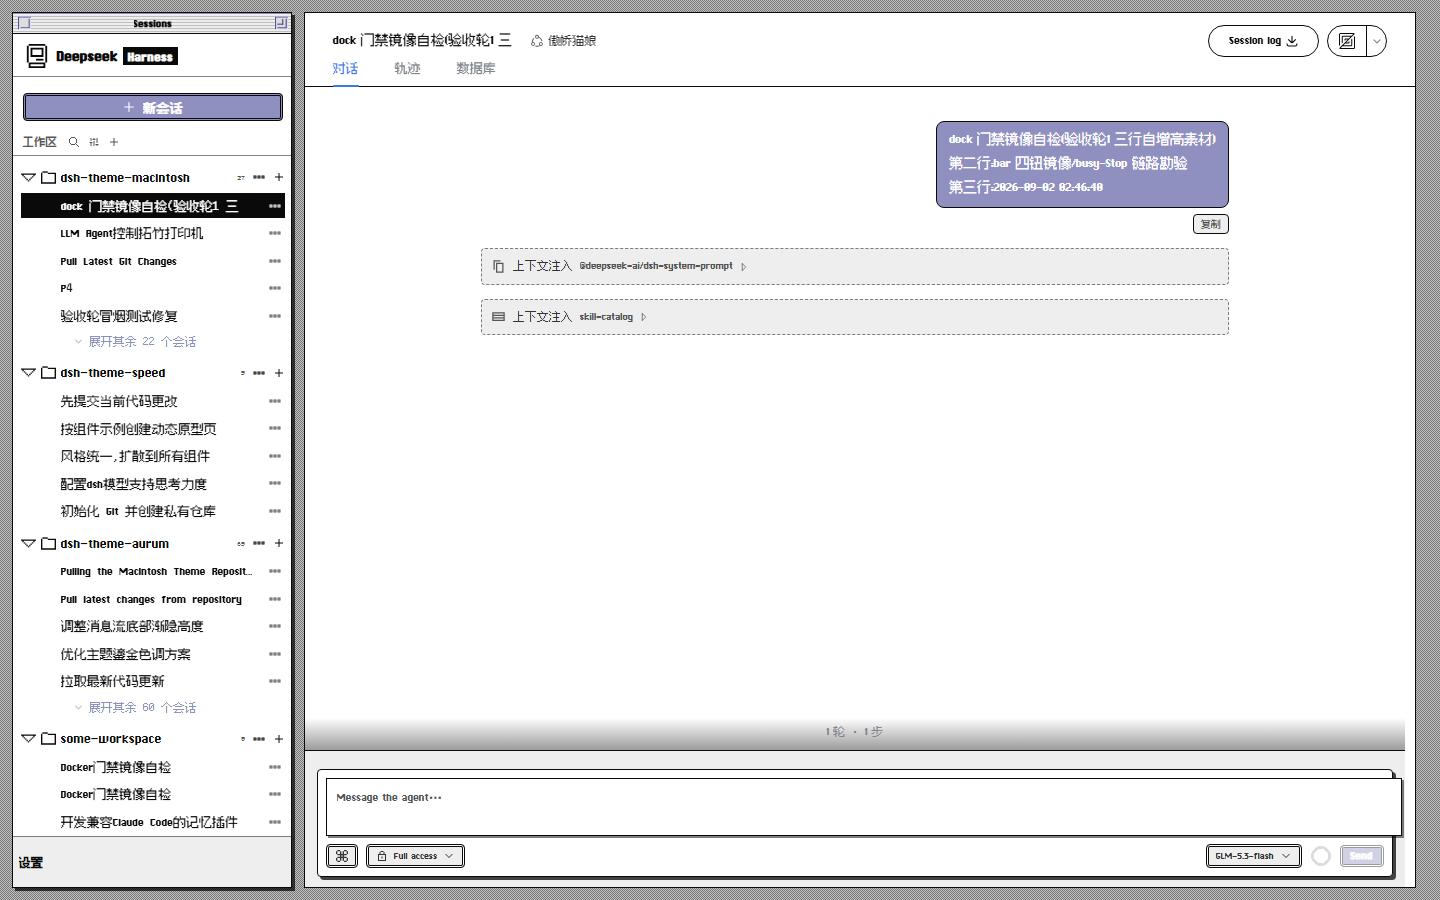
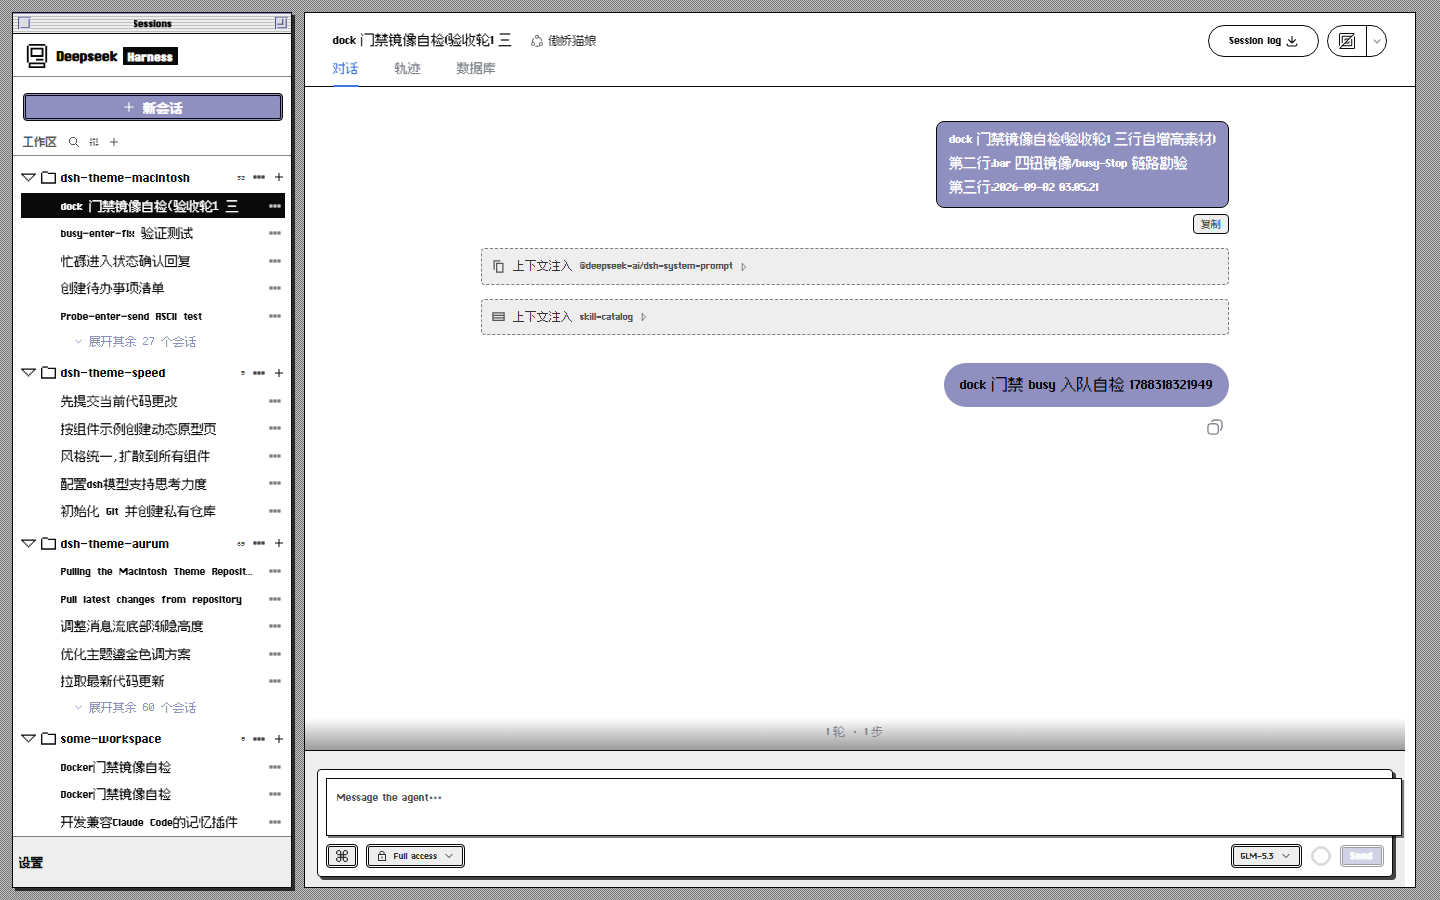
fix(mc-dock): busy 态回车入队——用户报障「回车不发送」修复
根因: dock 批把原型「有队列时入队不直发」简化为 busy 早退,agent 运行中
打字回车无事发生(idle 回车与 IME 守卫勘定无恙)。
修复: busy Enter = 镜像官方 textarea + 合成 keydown Enter 驱动官方
onKeyDown 入队(官方件唯一通道纪律,不直调 prompt 服务面);defaultPrevented
即收讫清本地稿,600ms 幽灵稿清扫拍,官方未收撤镜像留稿可重试。
门禁断言8b 固化(稿清空/无幽灵稿/消息入流),verify-dock GREEN 全程。

diff --git a/client.js b/client.js
@@ -2528,6 +2528,7 @@ var McDock = {
     var state = { mode: 'idle', has: false };
     var root = null, rootEl = null, furn = null, cmp = null; // rootEl 持元素引用:置空 root 后退场/teardown 仍能 remove
     var mo = null, dead = false;
+    var qTimer = null; // busy 入队收讫后置幽灵稿清扫拍(bug修复 2026-09-02:busy 回车入队)
     var off = { card: null, field: null, send: null, stop: null, phaseEl: null, phaseVal: '' };
     var MC_DOCK_API = null; // 模块级桥(Task 5/6/kit 消费)
     function q(sel) { try { return sel ? document.querySelector(sel) : null; } catch (e) { return null; } }
@@ -2644,7 +2645,7 @@ var McDock = {
         ta.style.height = Math.min(ta.scrollHeight, Math.round(window.innerHeight * 0.4)) + 'px';
         paint();
       });
-      ta.addEventListener('keydown', function (e) { // 原型 §9.2:Enter 无 Shift=发送;busy 早退
+      ta.addEventListener('keydown', function (e) { // 原型 §9.2:Enter 无 Shift=发送(idle=官方钮/busy=官方入队)
         if (e.isComposing) return; // 裁定:IME 组字期 Enter=选字确认,不得发送(中文交互主场景;Task 5 fix-1)
         try { if (e.key === 'Enter' && !e.shiftKey) { e.preventDefault(); doSend(); } } catch (er) {}
       });
@@ -2815,13 +2816,38 @@ var McDock = {
       try {
         var ta = cmp.querySelector('textarea');
         var text = ta ? ta.value : '';
-        if (state.mode === 'busy' || !text.trim()) return; // busy 早退(原型 §9.2)
+        if (!text.trim()) return;
+        if (state.mode === 'busy') { doQueue(text); return; } // busy:官方入队(原型 §9.2「有队列时入队不直发」;2026-09-02 修复——原「busy 早退」致回车无效)
         if (!api.setText(text)) { bridgeFail(); return; } // 镜像失败 = 桥断 → 降级
         if (!api.send()) return; // 官方钮 disabled = 官方拒绝,保留草稿不降级
         ta.value = '';
         ta.style.height = ''; // 验收轮1:清稿后自增高复位(回 rows=1 基线)
         state = mcDockState(state, { t: 'input', has: false });
         paint();
+      } catch (er) {}
+    }
+    function doQueue(text) { // busy 态回车:镜像官方 textarea + 合成 keydown Enter → 官方 onKeyDown 入队
+      // 勘定(probe-busy-enter B,2026-09-02):官方收讫即 preventDefault+受控清稿,消息即时入流为转向行;
+      // 官方件唯一通道纪律保持——驱动官方输入件自身 Enter 处理器,不直调 prompt('queue') 服务面。
+      try {
+        if (!off.field) return;
+        if (!api.setText(text)) { bridgeFail(); return; } // 镜像失败 = 桥断 → 降级
+        var kd = new window.KeyboardEvent('keydown',
+          { key: 'Enter', code: 'Enter', keyCode: 13, which: 13, bubbles: true, cancelable: true });
+        off.field.dispatchEvent(kd);
+        if (kd.defaultPrevented) { // 官方收讫信号(B 勘定)→ 清本地稿
+          var ta = cmp.querySelector('textarea');
+          if (ta) { ta.value = ''; ta.style.height = ''; }
+          state = mcDockState(state, { t: 'input', has: false });
+          paint();
+          try { if (qTimer) CLOCK.clear(qTimer); } catch (e) {}
+          qTimer = CLOCK.next(function ghostSweep() { // 收讫但官方受控清稿未落(慢 flush 角落)→ 撤镜像防幽灵稿
+            qTimer = null;
+            try { if (!dead && off.field && off.field.value !== '') mcMirrorValue(off.field, ''); } catch (e) {}
+          }, 600);
+          return;
+        }
+        mcMirrorValue(off.field, ''); // 官方未收(宿主改版等):撤镜像防幽灵稿,本地草稿保留可重试
       } catch (er) {}
     }
     function paint() { // 三态渲染(原型 §9.2;accToggle 状态切换)
@@ -3001,6 +3027,7 @@ var McDock = {
       try { if (MC_DOCK_API === api) MC_DOCK_API = null; } catch (e) {}
       try { if (mo) mo.disconnect(); } catch (e) {}
       try { if (timer) CLOCK.clear(timer); } catch (e) {}
+      try { if (qTimer) CLOCK.clear(qTimer); } catch (e) {} // busy 入队幽灵稿清扫拍随退场撤
       try { furnUnsub('unList'); furnUnsub('unSess'); furnUnsub('unTodos'); furnUnsub('unGoal'); } catch (e) {} // furn 批:四订阅全退订
       try { document.documentElement.removeAttribute('data-mc-dock-on'); } catch (e) {}
       try { document.documentElement.removeAttribute('data-mc-pop'); } catch (e) {} // 验收轮2:弹层门控随 teardown 摘除

diff --git a/src/conv/dock.js b/src/conv/dock.js
@@ -144,6 +144,7 @@ var McDock = {
     var state = { mode: 'idle', has: false };
     var root = null, rootEl = null, furn = null, cmp = null; // rootEl 持元素引用:置空 root 后退场/teardown 仍能 remove
     var mo = null, dead = false;
+    var qTimer = null; // busy 入队收讫后置幽灵稿清扫拍(bug修复 2026-09-02:busy 回车入队)
     var off = { card: null, field: null, send: null, stop: null, phaseEl: null, phaseVal: '' };
     var MC_DOCK_API = null; // 模块级桥(Task 5/6/kit 消费)
     function q(sel) { try { return sel ? document.querySelector(sel) : null; } catch (e) { return null; } }
@@ -260,7 +261,7 @@ var McDock = {
         ta.style.height = Math.min(ta.scrollHeight, Math.round(window.innerHeight * 0.4)) + 'px';
         paint();
       });
-      ta.addEventListener('keydown', function (e) { // 原型 §9.2:Enter 无 Shift=发送;busy 早退
+      ta.addEventListener('keydown', function (e) { // 原型 §9.2:Enter 无 Shift=发送(idle=官方钮/busy=官方入队)
         if (e.isComposing) return; // 裁定:IME 组字期 Enter=选字确认,不得发送(中文交互主场景;Task 5 fix-1)
         try { if (e.key === 'Enter' && !e.shiftKey) { e.preventDefault(); doSend(); } } catch (er) {}
       });
@@ -431,13 +432,38 @@ var McDock = {
       try {
         var ta = cmp.querySelector('textarea');
         var text = ta ? ta.value : '';
-        if (state.mode === 'busy' || !text.trim()) return; // busy 早退(原型 §9.2)
+        if (!text.trim()) return;
+        if (state.mode === 'busy') { doQueue(text); return; } // busy:官方入队(原型 §9.2「有队列时入队不直发」;2026-09-02 修复——原「busy 早退」致回车无效)
         if (!api.setText(text)) { bridgeFail(); return; } // 镜像失败 = 桥断 → 降级
         if (!api.send()) return; // 官方钮 disabled = 官方拒绝,保留草稿不降级
         ta.value = '';
         ta.style.height = ''; // 验收轮1:清稿后自增高复位(回 rows=1 基线)
         state = mcDockState(state, { t: 'input', has: false });
         paint();
+      } catch (er) {}
+    }
+    function doQueue(text) { // busy 态回车:镜像官方 textarea + 合成 keydown Enter → 官方 onKeyDown 入队
+      // 勘定(probe-busy-enter B,2026-09-02):官方收讫即 preventDefault+受控清稿,消息即时入流为转向行;
+      // 官方件唯一通道纪律保持——驱动官方输入件自身 Enter 处理器,不直调 prompt('queue') 服务面。
+      try {
+        if (!off.field) return;
+        if (!api.setText(text)) { bridgeFail(); return; } // 镜像失败 = 桥断 → 降级
+        var kd = new window.KeyboardEvent('keydown',
+          { key: 'Enter', code: 'Enter', keyCode: 13, which: 13, bubbles: true, cancelable: true });
+        off.field.dispatchEvent(kd);
+        if (kd.defaultPrevented) { // 官方收讫信号(B 勘定)→ 清本地稿
+          var ta = cmp.querySelector('textarea');
+          if (ta) { ta.value = ''; ta.style.height = ''; }
+          state = mcDockState(state, { t: 'input', has: false });
+          paint();
+          try { if (qTimer) CLOCK.clear(qTimer); } catch (e) {}
+          qTimer = CLOCK.next(function ghostSweep() { // 收讫但官方受控清稿未落(慢 flush 角落)→ 撤镜像防幽灵稿
+            qTimer = null;
+            try { if (!dead && off.field && off.field.value !== '') mcMirrorValue(off.field, ''); } catch (e) {}
+          }, 600);
+          return;
+        }
+        mcMirrorValue(off.field, ''); // 官方未收(宿主改版等):撤镜像防幽灵稿,本地草稿保留可重试
       } catch (er) {}
     }
     function paint() { // 三态渲染(原型 §9.2;accToggle 状态切换)
@@ -617,6 +643,7 @@ var McDock = {
       try { if (MC_DOCK_API === api) MC_DOCK_API = null; } catch (e) {}
       try { if (mo) mo.disconnect(); } catch (e) {}
       try { if (timer) CLOCK.clear(timer); } catch (e) {}
+      try { if (qTimer) CLOCK.clear(qTimer); } catch (e) {} // busy 入队幽灵稿清扫拍随退场撤
       try { furnUnsub('unList'); furnUnsub('unSess'); furnUnsub('unTodos'); furnUnsub('unGoal'); } catch (e) {} // furn 批:四订阅全退订
       try { document.documentElement.removeAttribute('data-mc-dock-on'); } catch (e) {}
       try { document.documentElement.removeAttribute('data-mc-pop'); } catch (e) {} // 验收轮2:弹层门控随 teardown 摘除

diff --git a/prototype/component-dev-notes.md b/prototype/component-dev-notes.md
@@ -392,6 +392,15 @@ state = { view, mode, current, sessions, busy:{}, fallback:{}, queue:{}, stats:{
 - **门禁语义翻转**：verify-dock 断言6 由「全静默零匹配」改为「在场=结构断言（queue 文案正则/
   todo bar+meta+行/goal 相位枚举）/缺席=静默合法 INFO」；真实数据呈现归用户活体验收
   （需含 todo/goal 实数据的会话，门禁会话无数据）。
+- **busy 回车入队修复（2026-09-02 用户报障：busy 态回车无效）**：dock 批把原型 §9.2「有队列时
+  入队不直发」简化成了 busy 早退 → agent 运行中打字回车什么都不发生。修复：busy 态 Enter =
+  镜像官方 textarea + 派发**合成 keydown Enter**（`keyCode:13` 冒泡）驱动官方 onKeyDown 入队
+  （勘定 probe-busy-enter B：官方收讫即 `defaultPrevented`+受控清稿，消息即时入流为转向行）——
+  官方件唯一通道纪律保持，不直调 `prompt('queue')` 服务面。收讫信号用 `kd.defaultPrevented`
+  （同步、免轮询），另置 600ms 幽灵稿清扫拍（慢 flush 角落撤镜像）；官方未收（宿主改版）则撤
+  镜像留本地稿可重试。门禁断言8b 固化（稿清空/无幽灵稿/消息入流）。idle 回车与 IME 组字守卫
+  勘定无恙（probe-enter-send：纯键序回车发送正常，isComposing 跳过语义正确）。
+
 
 
 ---
